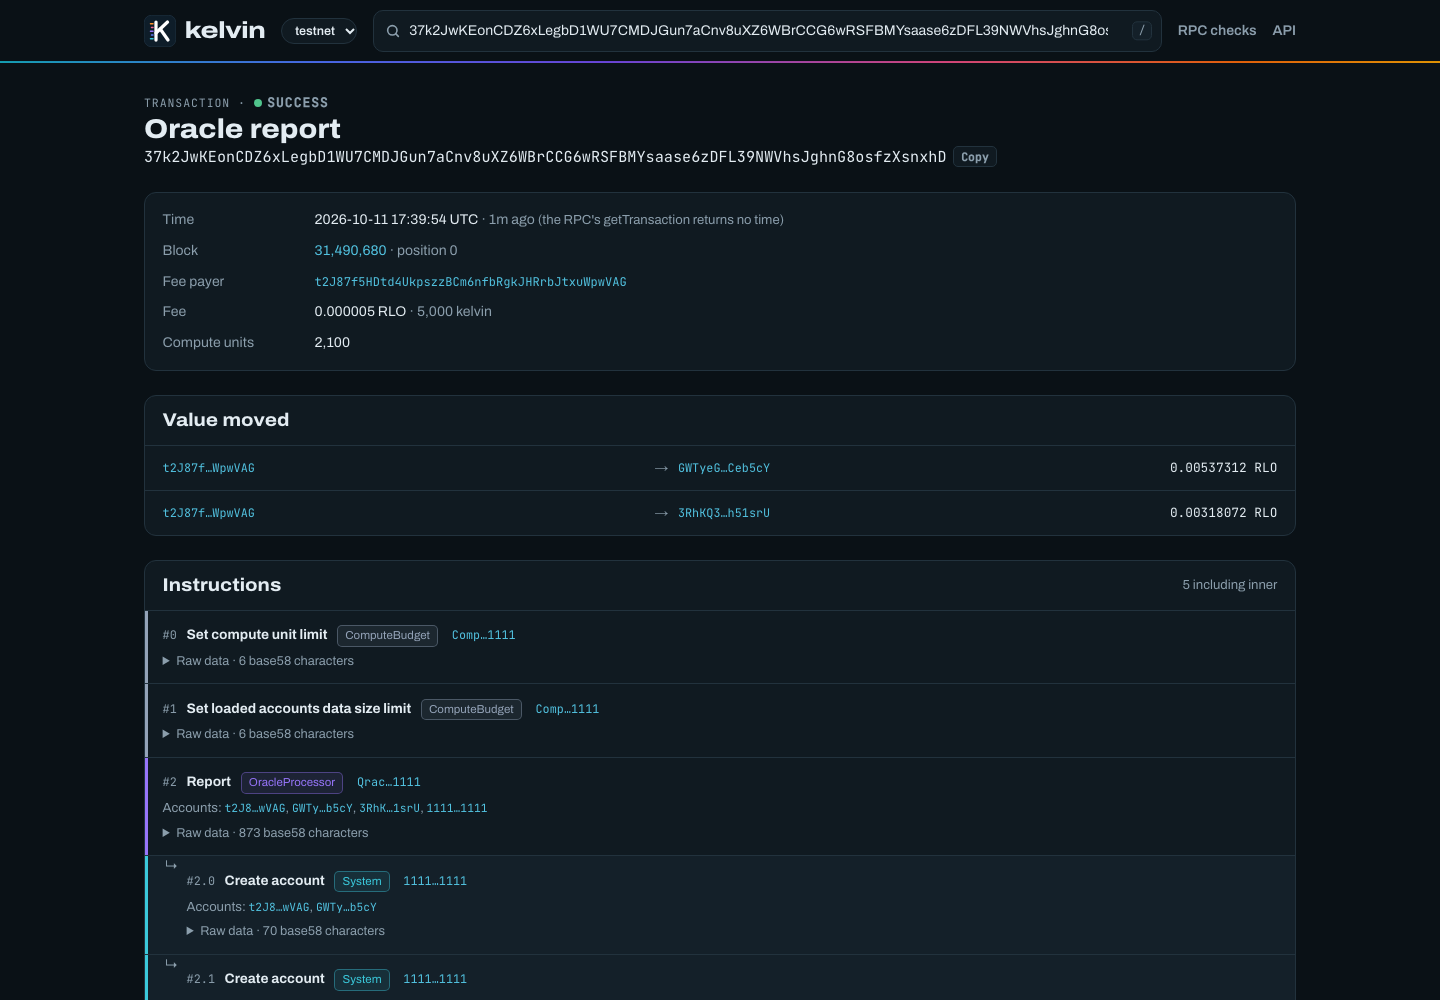
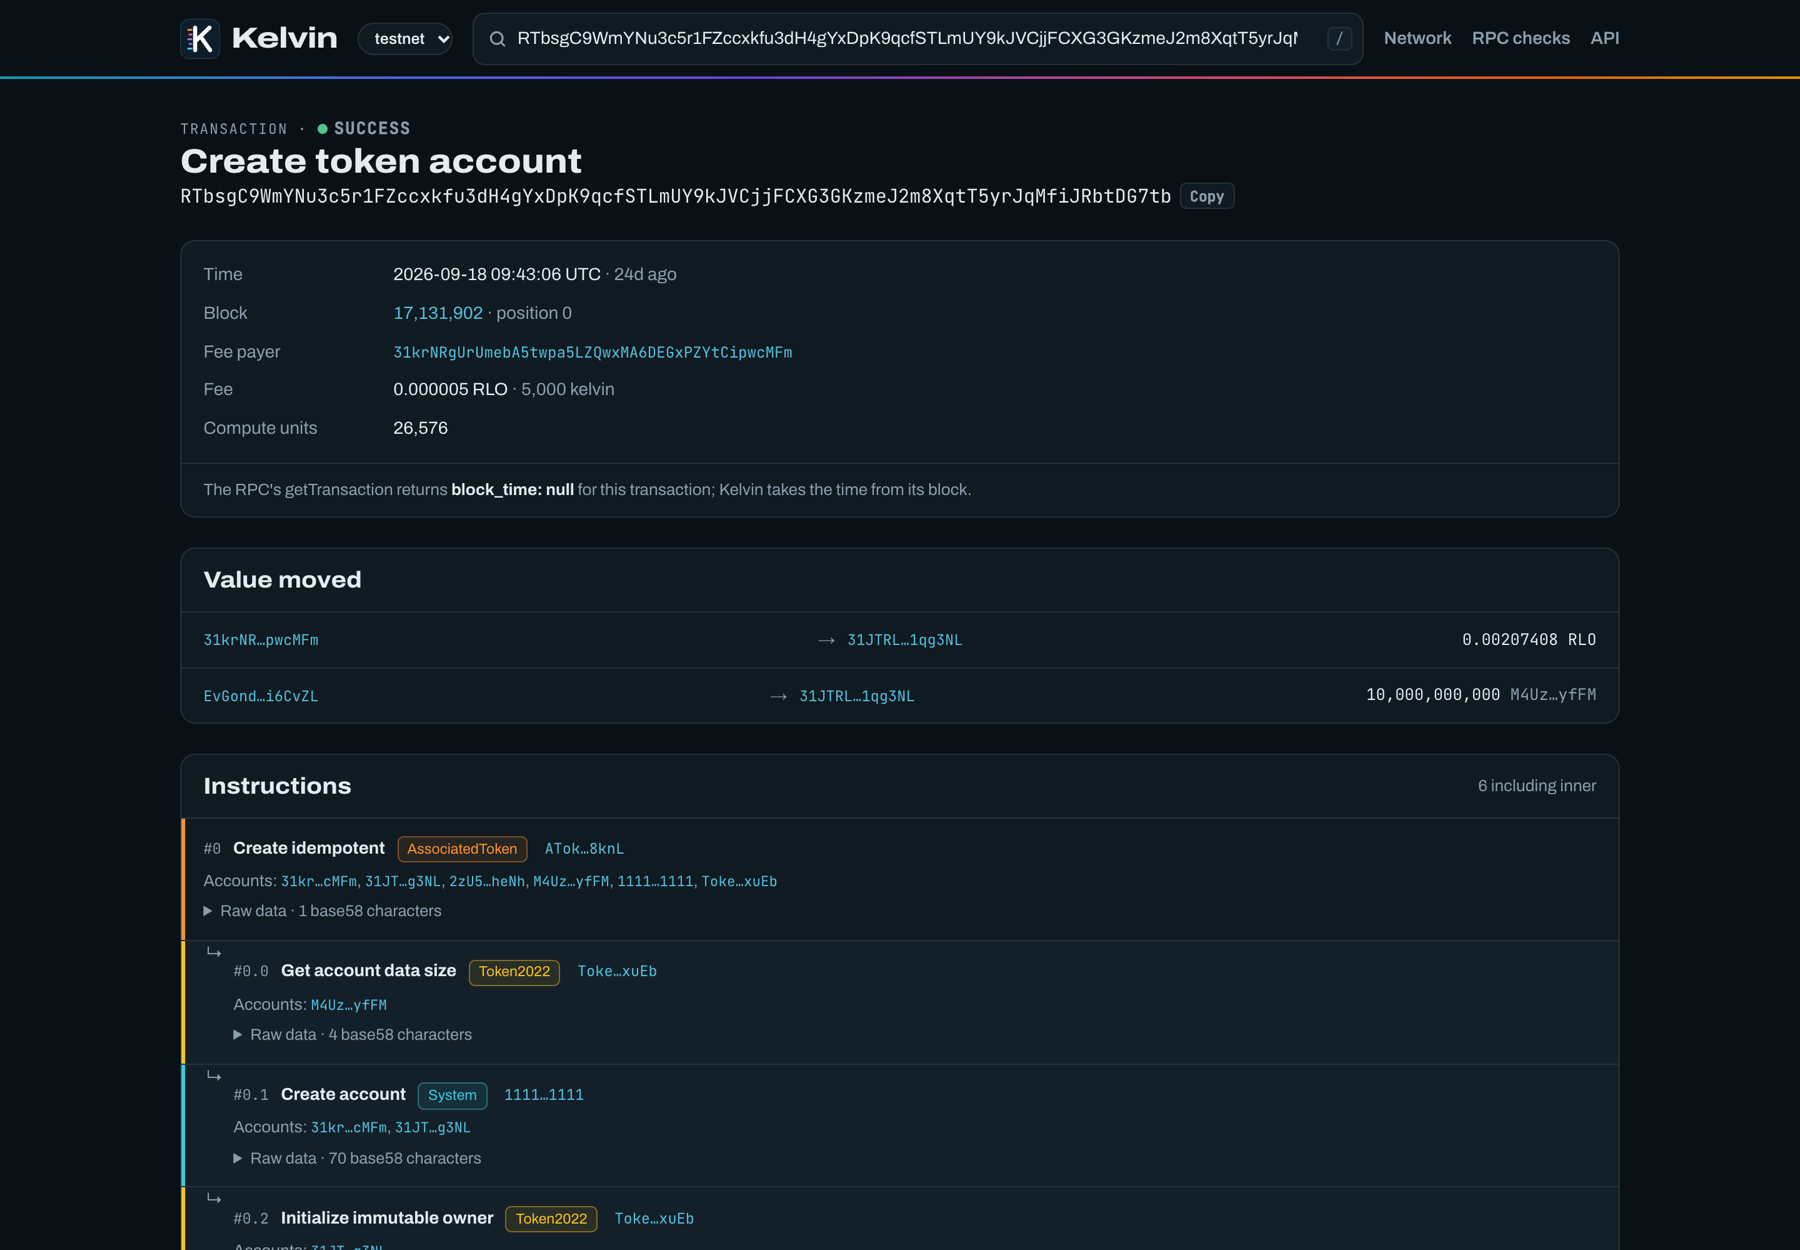
README: live badge, links, Try it against the public API, screenshot gallery

diff --git a/README.md b/README.md
@@ -6,13 +6,20 @@
 </p>
 
 <p align="center">
+  <a href="https://kelvinscan.pages.dev"><img src="https://img.shields.io/badge/dynamic/json?url=https%3A%2F%2Fkelvinscan.pages.dev%2Fv1%2Ftestnet%2Fstatus&query=%24.totals.transactions&label=testnet%20transactions%20indexed&color=0a6c8c&cacheSeconds=3600" alt="Testnet transactions indexed, live"></a>
   <a href="https://github.com/kriss39/kelvin/actions/workflows/ci.yml"><img src="https://github.com/kriss39/kelvin/actions/workflows/ci.yml/badge.svg" alt="CI"></a>
-  <img src="https://img.shields.io/badge/license-Apache--2.0-0a6c8c" alt="Apache-2.0">
-  <img src="https://img.shields.io/badge/Rialo-testnet-7048e8" alt="Rialo testnet">
   <a href="https://www.npmjs.com/package/kelvin-rialo"><img src="https://img.shields.io/npm/v/kelvin-rialo?label=kelvin-rialo&color=d9480f" alt="kelvin-rialo on npm"></a>
+  <a href="https://www.npmjs.com/package/kelvin-rialo-mcp"><img src="https://img.shields.io/npm/v/kelvin-rialo-mcp?label=kelvin-rialo-mcp&color=7048e8" alt="kelvin-rialo-mcp on npm"></a>
+  <img src="https://img.shields.io/badge/license-Apache--2.0-0a6c8c" alt="Apache-2.0">
 </p>
 
-**Live:** <https://kelvinscan.pages.dev> (testnet)
+<p align="center">
+  <a href="https://kelvinscan.pages.dev"><b>Explorer</b></a> ·
+  <a href="https://kelvinscan.pages.dev/docs"><b>API reference</b></a> ·
+  <a href="sdk/typescript/README.md"><b>TypeScript SDK</b></a> ·
+  <a href="sdk/mcp/README.md"><b>MCP server</b></a> ·
+  <a href="docs/ARCHITECTURE.md"><b>How it works</b></a>
+</p>
 
 **Kelvin** indexes every [Rialo](https://rialo.io) block and serves the full history the RPC
 cannot: every transaction of an address, pageable both ways, with block times, decoded
@@ -20,11 +27,51 @@ instructions and value movements, plus a live feed and an explorer.
 
 Rialo's RPC answers `getSignaturesForAddress` with the newest 20 signatures and ignores `limit`
 and `before`, so older history cannot be reached. Blocks older than 17 September 2026 are gone.
-Kelvin keeps all of it.
+Kelvin keeps all of it. For the busiest testnet address that is more than 2 million transactions
+where the RPC shows 20.
 
 *1 RLO = 10⁹ kelvin, the smallest unit of Rialo's native token.*
 
-<p align="center"><img src="docs/img/explorer-home.png" alt="Kelvin explorer home: the RPC's 20 transactions next to Kelvin's full count, indexing status, block-height ruler and an activity heat chart" width="900"></p>
+<p align="center"><img src="docs/img/explorer-home.png" alt="Kelvin explorer home: the RPC's 20 transactions next to Kelvin's full count, indexing status, the last hour on Rialo by program" width="900"></p>
+
+## Try it
+
+The public instance at <https://kelvinscan.pages.dev> is free to use (10 requests per second per
+client).
+
+```sh
+# The oldest transactions of an address: the RPC alone cannot go further back than its newest 20.
+curl "https://kelvinscan.pages.dev/v1/testnet/address/8GFLC4J4h8AGGwku4JVzeWrkdY9oeWkZNUeQfsFkNN2p/txs?order=asc&limit=3"
+```
+
+```ts
+// npm install kelvin-rialo
+import { Kelvin } from "kelvin-rialo";
+
+const kelvin = new Kelvin({ baseUrl: "https://kelvinscan.pages.dev" });
+// Pages are fetched as you iterate; this stops after the first ten, oldest first.
+let n = 0;
+for await (const tx of kelvin.address("8GFLC4J4h8AGGwku4JVzeWrkdY9oeWkZNUeQfsFkNN2p").history({ order: "asc" })) {
+  console.log(tx.time, tx.signature, tx.status);
+  if (++n === 10) break;
+}
+```
+
+```sh
+# Give an AI agent (Claude Code here) eight read-only tools over Rialo history.
+claude mcp add kelvin -- npx -y kelvin-rialo-mcp
+```
+
+<table>
+  <tr>
+    <td width="50%"><img src="docs/img/explorer-address.png" alt="Address page: 2.25 million transactions where the RPC shows 20, balance, activity by day and top counterparties"></td>
+    <td width="50%"><img src="docs/img/explorer-transaction.png" alt="Transaction page: time taken from the block, value moved and decoded instructions including inner ones"></td>
+  </tr>
+  <tr>
+    <td>Every transaction of an address, activity by day, top counterparties, CSV export and a live feed.</td>
+    <td>Decoded instructions (inner ones too), RLO and token movements, and the time the RPC leaves out.</td>
+  </tr>
+</table>
 
 ## What the RPC cannot do, and Kelvin does
 
@@ -43,21 +90,23 @@ Measured against `testnet.rialo.io` (0.21.0-alpha.0) and re-checked every hour b
 
 ## Status
 
-Working on testnet; devnet next.
+Running on testnet since October 2026, on a single 1 GB server.
 
 - **Head follower** 2 blocks behind the chain, about 1–4 seconds of lag.
-- **Backfill** from the oldest block the RPC serves at 130–220 blocks/s; no missing blocks so far.
+- **Backfill** from the oldest block the RPC serves (16,635,303) at 500–900 blocks/s; no missing
+  blocks so far.
 - **Decoding** of System, Compute Budget, Token-2022 / SPL Token, Associated Token and oracle
   instructions: 98.9% of instructions; the rest keep their raw data.
 - **API** with OpenAPI docs, a live stream, CSV export and hourly RPC conformance checks.
-- **TypeScript SDK** and an **MCP server** for AI agents.
-- **Explorer** at `/`: live feed, the last hour by program, an activity heat chart, address pages
-  (daily activity, top counterparties, REX requests), transaction pages (workflow lineage), block
-  pages and a network page (validators, DKG committee, epoch).
+- **TypeScript SDK** and an **MCP server** for AI agents, both on npm.
+- **Explorer**: live feed, the last hour by program, address pages (daily activity, top
+  counterparties, REX requests), transaction pages (workflow lineage), block and program pages,
+  and a network page (validators, DKG committee, epoch).
+- **Devnet** is next: its blocks carry about 90 times more oracle data than testnet's.
 
 ## Quick start
 
-Needs Docker and Rust 1.85 or newer.
+Run your own: needs Docker and Rust 1.88 or newer.
 
 ```sh
 docker compose up -d db          # Postgres 16 on 127.0.0.1:54329
@@ -80,7 +129,7 @@ curl "http://127.0.0.1:8080/v1/testnet/address/8GFLC4J4h8AGGwku4JVzeWrkdY9oeWkZN
 |---|---|
 | [docs/API.md](docs/API.md) | Conventions, paging, the live stream, examples in curl and JavaScript |
 | [docs/ARCHITECTURE.md](docs/ARCHITECTURE.md) | Pipeline, cursors, finality, storage design, decoding, conformance, testing |
-| [docs/OPERATIONS.md](docs/OPERATIONS.md) | Commands, configuration, deploying to Oracle Cloud, monitoring, maintenance |
+| [docs/OPERATIONS.md](docs/OPERATIONS.md) | Commands, configuration, tests, deploying (Azure, Oracle), monitoring, maintenance |
 | [sdk/typescript](sdk/typescript/README.md) | TypeScript client: typed calls, history iterators, live subscriptions. `npm install kelvin-rialo` |
 | [sdk/mcp](sdk/mcp/README.md) | MCP server so AI agents can query Rialo history. `npx -y kelvin-rialo-mcp` |
 | [brand/](brand/README.md) | Logo, colours and the link-preview card |
